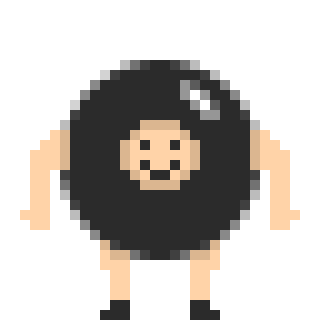
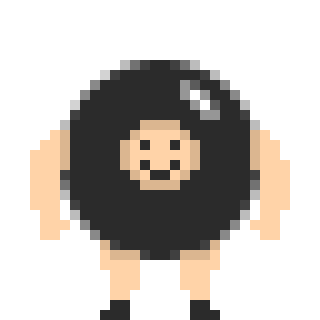
good

diff --git a/trial 8.html b/trial 8.html
@@ -18,7 +18,7 @@ body:active {
 </style>
 <body onload="movement()">
 <img src="testback.jpg" style="top:0px;left:0px;" draggable="false" class="noselect" id="background">
-<img src='walkingRight.gif' style="width:160px;height:160px;" draggable="false" class="noselect" id="plyr">
+<img src='cannonBallKid.png' style="width:160px;height:160px;" draggable="false" class="noselect" id="plyr">
 <html type="button" onkeydown="down(event)" onkeyup="up(event)">
 </html>
 <script>
@@ -59,9 +59,6 @@ function up(event) {
   }
 }
 function movement(){ setInterval (function(){
-  if (keys[0]==1) {
-    y--;
-  }
   if (keys[1]==1) {
     x--;
     if (img!="l") {
@@ -69,15 +66,38 @@ function movement(){ setInterval (function(){
       img="l";
     }
   }
-  if (keys[2]==1) {
-    y++;
-  }
   if (keys[3]==1) {
     x++;
     if (img!="r") {
       plyr.src='walkingRight.gif';
       img="r";
     }
+  }
+  if (keys[0]==1) {
+    y--;
+    if ((img!="a")&&(keys[1]!=1)&&(keys[3]!=1)) {
+      plyr.src="FF0000.png";
+      img="a";
+    }
+  }
+  if (keys[2]==1) {
+    y++;
+    if ((img!="t")&&(keys[1]!=1)&&(keys[3]!=1)) {
+      plyr.src="blue.png";
+      img="t";
+    }
+  }
+  if ((keys[0]===0)&&(keys[1]==1)&&(keys[2]==1)&&(keys[3]==1)) {
+    plyr.src='blue.png';
+    img="t"
+  }
+  if ((keys[0]==1)&&(keys[1]==1)&&(keys[2]===0)&&(keys[3]==1)) {
+    plyr.src='FF0000.png';
+    img="a"
+  }
+  if (((keys[0]===0)&&(keys[1]===0)&&(keys[2]===0)&&(keys[3]===0))||((keys[0]==1)&&(keys[1]==1)&&(keys[2]==1)&&(keys[3]==1))||((keys[0]===0)&&(keys[1]==1)&&(keys[2]===0)&&(keys[3]==1))||((keys[0]==1)&&(keys[1]===0)&&(keys[2]==1)&&(keys[3]===0))) {
+    plyr.src='cannonBallKid.png';
+    img="s"
   }
   var winw = window.innerWidth
 || document.documentElement.clientWidth
